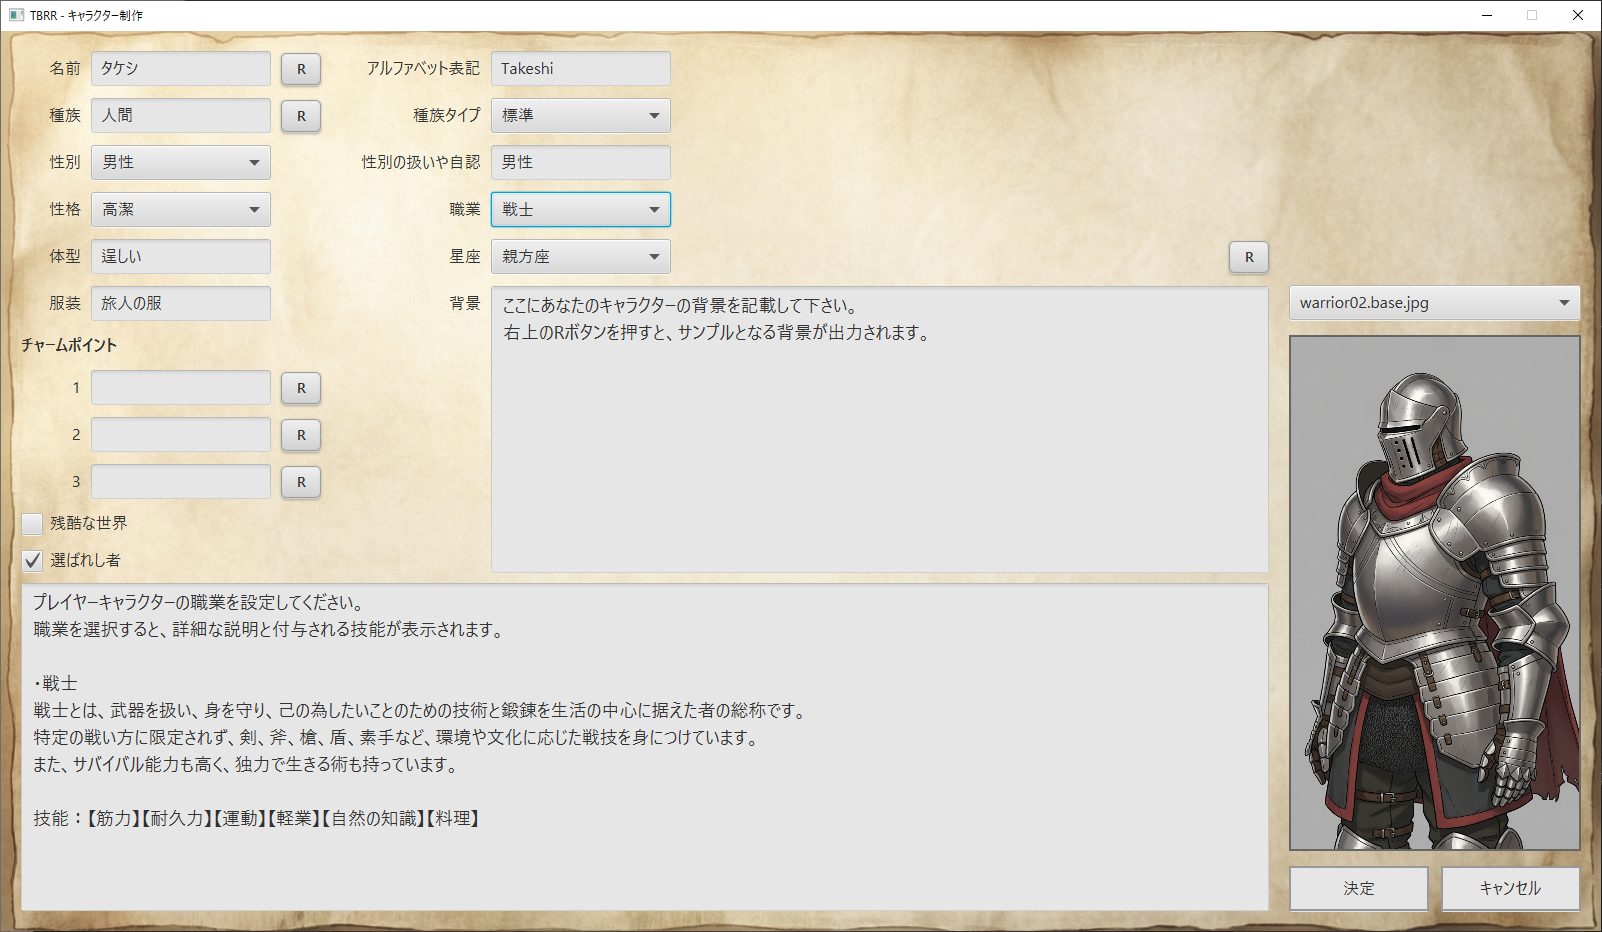
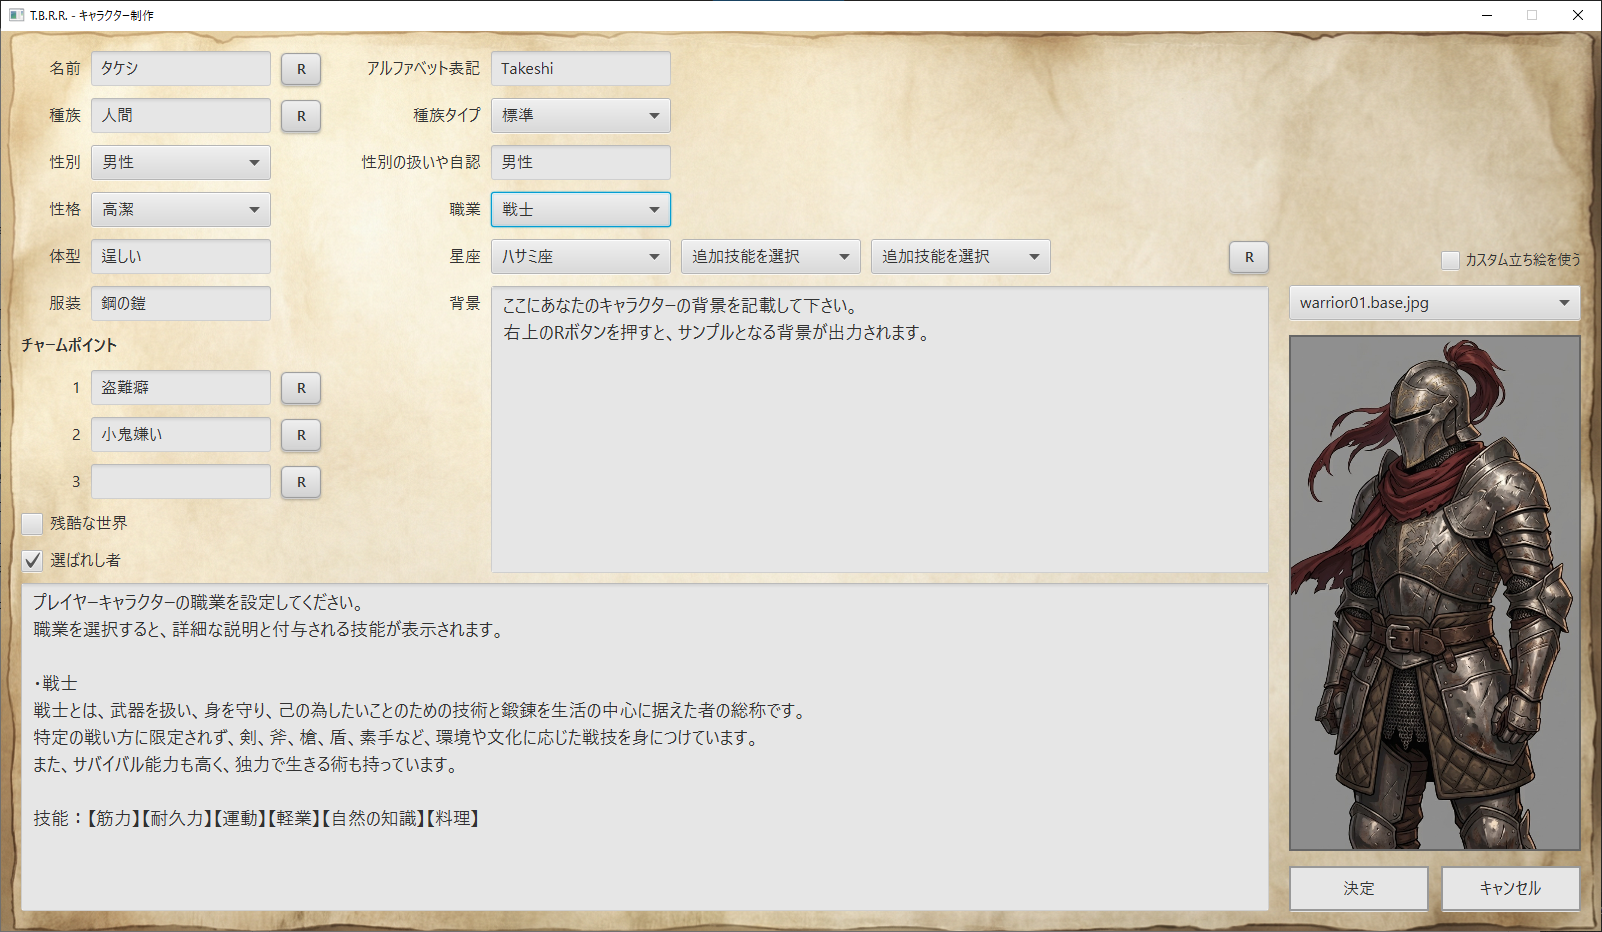
ちょっぴり追加。（その内readmeも整備しなきゃなぁ）

diff --git a/README.md b/README.md
@@ -30,6 +30,8 @@ Ruina 廃都の物語の影響も色濃く受けています。
 
 ![ゲーム画面2](screenshots/game02.png)
 
+![ゲーム画面3](screenshots/game03.png)
+
 > [!IMPORTANT]
 > **ソースコードのみの公開です**
 > このリポジトリには、ゲームの実行に必要な素材データ（画像、シナリオ、イベントデータ等）は含まれていません。
